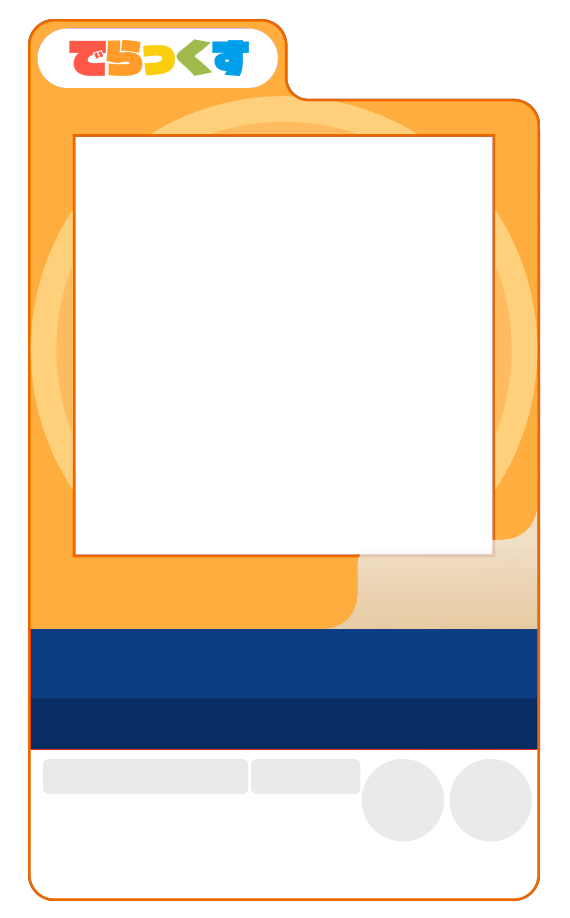
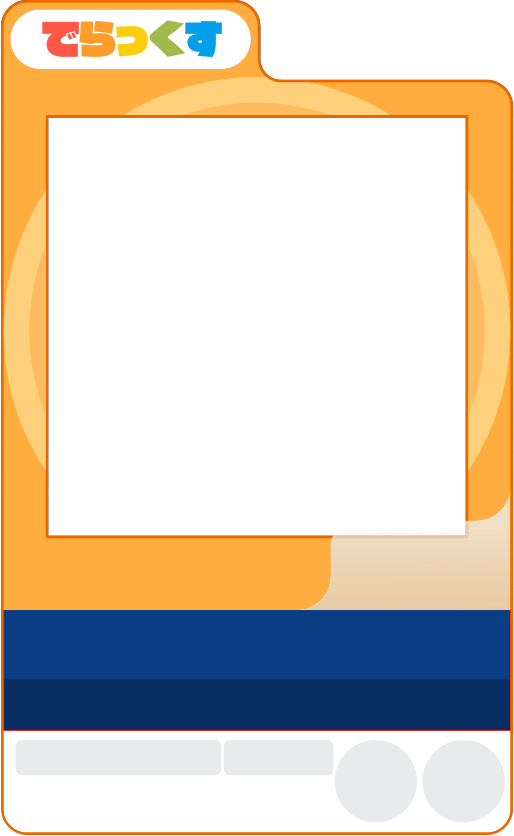
Fix song detail frame spacing

diff --git a/src/components/song/SongDetailFrame.css b/src/components/song/SongDetailFrame.css
@@ -19,9 +19,9 @@
 
 .song-detail-frame__jacket {
   z-index: 0;
-  top: 14.6%;
-  left: 12.8%;
-  width: 73.9%;
+  top: 14.1%;
+  left: 9.6%;
+  width: 81%;
   aspect-ratio: 1;
   object-fit: cover;
 }
@@ -47,12 +47,12 @@
 }
 
 .song-detail-frame__difficulty {
-  top: 60.5%;
-  left: 5.8%;
+  top: 64.7%;
+  left: 3%;
   width: 55.5%;
   height: 8.7%;
   font-family: var(--font-rodin-bold);
-  font-size: 7cqw;
+  font-size: 7.2cqw;
   font-weight: 800;
   letter-spacing: -0.055em;
   -webkit-text-stroke: 0.12em var(--difficulty-color);
@@ -61,13 +61,13 @@
 }
 
 .song-detail-frame__level {
-  top: 59%;
-  left: 64.2%;
+  top: 63.3%;
+  left: 67%;
   width: 26.5%;
   height: 8.7%;
   color: white;
   font-family: var(--font-rodin-bold);
-  font-size: 12cqw;
+  font-size: 13cqw;
   font-weight: 800;
   letter-spacing: -0.075em;
 }
@@ -117,27 +117,28 @@
 }
 
 .song-detail-frame__title {
-  top: 68.5%;
-  left: 5.1%;
-  width: 89.4%;
+  top: 73.6%;
+  left: 1%;
+  width: 98%;
   height: 7.5%;
   padding: 0 4%;
   font-weight: 600;
+  font-size: 6.2cqw;
   text-shadow: 0 0.06em 0.08em rgb(0 0 0 / 45%);
 }
 
 .song-detail-frame__achievement {
   position: absolute;
   z-index: 2;
-  top: 82.1%;
-  left: 5.9%;
+  top: 88.2%;
+  left: 3.5%;
   width: 39.2%;
   height: 5.1%;
   display: flex;
   align-items: center;
   justify-content: center;
   color: var(--color-dark);
-  font-size: 5.2cqw;
+  font-size: 5.7cqw;
   font-weight: 700;
   line-height: 1;
   white-space: nowrap;
@@ -160,33 +161,34 @@
 }
 
 .song-detail-frame__rank {
-  top: 82.2%;
-  left: 44.3%;
-  width: 19.2%;
-  height: 4.6%;
+  top: 88.2%;
+  left: 44.8%;
+  width: 19.4%;
+  height: 5.2%;
 }
 
 .song-detail-frame__combo,
 .song-detail-frame__sync {
-  top: 81.4%;
-  width: 19%;
+  top: 87.3%;
+  width: 20.3%;
 }
 
 .song-detail-frame__combo {
-  left: 61.1%;
+  left: 63.1%;
 }
 
 .song-detail-frame__sync {
-  left: 76.9%;
+  left: 80.3%;
 }
 
 .song-detail-frame__artist {
-  top: 76%;
-  left: 5.1%;
-  width: 89.4%;
+  top: 81.5%;
+  left: 1%;
+  width: 98%;
   height: 5.7%;
   padding: 0 4%;
   font-weight: 600;
+  font-size: 4.2cqw;
   text-shadow: 0 0.06em 0.08em rgb(0 0 0 / 45%);
 }
 

diff --git a/src/pages/ChartDetailPage.tsx b/src/pages/ChartDetailPage.tsx
@@ -42,9 +42,9 @@ export function ChartDetailPage({ chartId }: ChartDetailPageProps) {
 
   return (
     <div>
-      <section className="grid items-start gap-2 sm:gap-4 lg:grid-cols-[minmax(0,20rem)_minmax(0,1fr)] lg:gap-8">
+      <section className="grid items-center gap-2 sm:gap-4 lg:grid-cols-[minmax(0,20rem)_minmax(0,1fr)] lg:gap-8">
         {metadata?.jacketUrl && chartMetadata && (
-          <div className="mx-auto w-[250px] lg:mx-0 lg:w-full lg:max-w-80">
+          <div className="mx-auto w-[250px] lg:mx-0 lg:w-full lg:max-w-73">
             <SongDetailFrame
               title={metadata.titles.canonical}
               artist={metadata.artist}
@@ -59,7 +59,7 @@ export function ChartDetailPage({ chartId }: ChartDetailPageProps) {
           </div>
         )}
 
-        {metadata && chartMetadata && <div className={"mt-3 min-w-0 self-center"}>
+        {metadata && chartMetadata && <div className={"min-w-0 self-center"}>
           <ContentCard accentColor={accentColor} className="hidden lg:block">
             <div className={"flex min-w-0 flex-col"}>
               <h1 className={"flex min-w-0 text-lightest text-stroke [--text-stroke-color:var(--color-primary)]"}>
@@ -127,7 +127,7 @@ export function ChartDetailPage({ chartId }: ChartDetailPageProps) {
           </ContentCard>
 
           {difficultyCharts.length > 0 && (
-            <nav className="lg:mt-6 justify-center flex flex-wrap gap-2 sm:gap-3 md:gap-5" aria-label="Chart difficulties">
+            <nav className="mt-2 lg:mt-6 justify-center flex flex-wrap gap-2 sm:gap-3 md:gap-5" aria-label="Chart difficulties">
               {difficultyCharts.map((chart) => {
                 const difficultyColor = chart.difficulty.replace(":", "").toLowerCase();
                 const buttonStyle = {

diff --git a/src/components/song/SongDetailFrame.tsx b/src/components/song/SongDetailFrame.tsx
@@ -46,12 +46,6 @@ interface SongDetailFrameProps {
   className?: string;
 }
 
-function fittedTextSize(text: string, normal: number, medium: number, small: number) {
-  if (text.length > 28) return `${small}cqw`;
-  if (text.length > 18) return `${medium}cqw`;
-  return `${normal}cqw`;
-}
-
 export function SongDetailFrame({
   title,
   artist,
@@ -95,16 +89,10 @@ export function SongDetailFrame({
         </span>
       </div>
 
-      <header
-        className="song-detail-frame__title"
-        style={{ fontSize: fittedTextSize(title, 4.5, 3.8, 3.15) }}
-      >
+      <header className="song-detail-frame__title">
         <OverflowMarquee centerWhenFit>{title}</OverflowMarquee>
       </header>
-      <div
-        className="song-detail-frame__artist"
-        style={{ fontSize: fittedTextSize(artist, 3.5, 3.05, 2.6) }}
-      >
+      <div className="song-detail-frame__artist">
         <OverflowMarquee centerWhenFit>{artist}</OverflowMarquee>
       </div>
 

diff --git a/src/components/SiteLayout.tsx b/src/components/SiteLayout.tsx
@@ -39,7 +39,7 @@ export function SiteLayout({ children, route }: SiteLayoutProps) {
         </nav>
       </header>
 
-      <main className="flex-1 py-4 sm:py-12">{children}</main>
+      <main className="flex-1 py-6 sm:py-12">{children}</main>
 
       <footer className="flex flex-col gap-2 border-t border-lightest py-8 text-xs sm:flex-row sm:justify-between">
         <span>Unofficial fan project—not affiliated with SEGA.</span>
